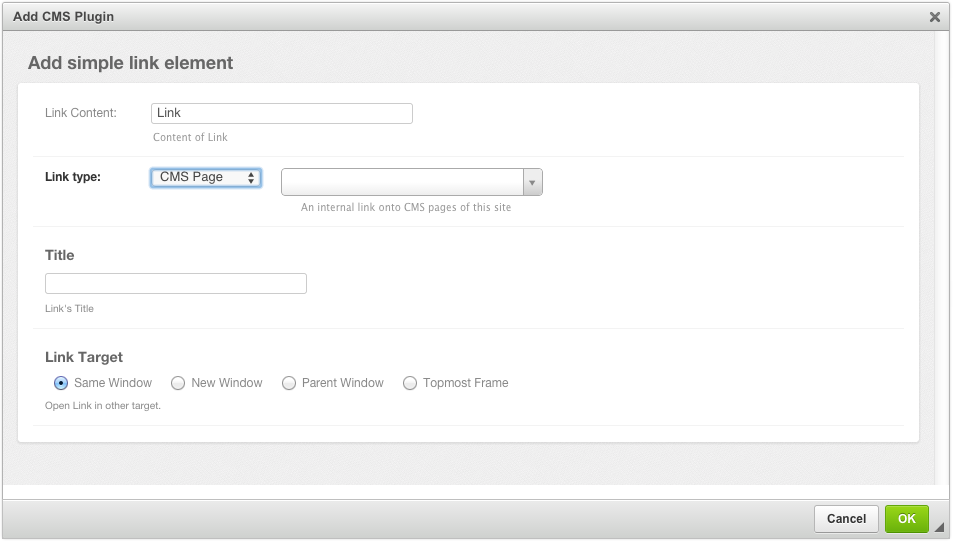
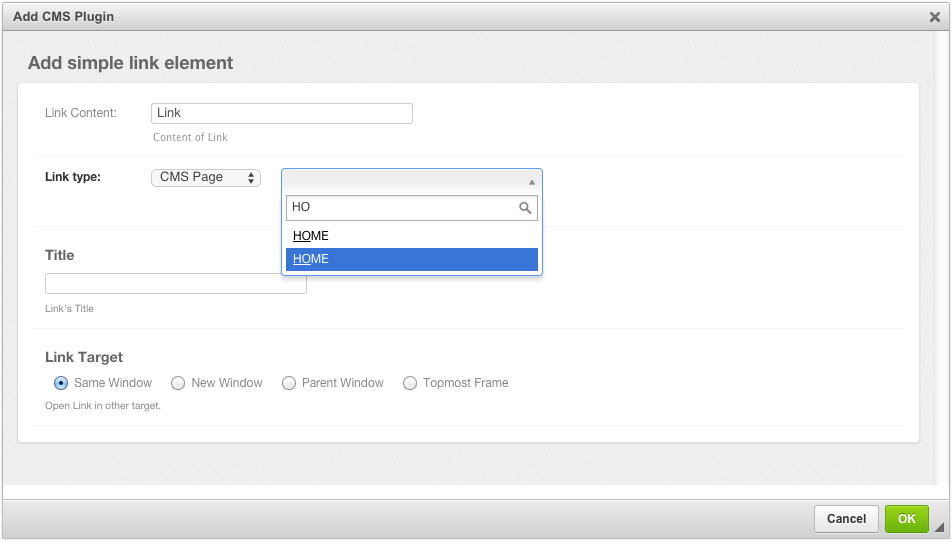
Updated docs for simple and sharable links

diff --git a/docs/source/link-plugin.rst b/docs/source/link-plugin.rst
@@ -4,16 +4,59 @@
 Link Plugin
 ===========
 
-**djangocms-cascade** ships with its own Link plugin. This is because other Cascade Plugins, such
-as Button and Picture require the functionality to set links to internal- and external URLs.
-However, the de-facto plugin for links, djangocms-link_ can't be used as a base class for these
-plugins, therefore an alternative implementation had to be re-implemented. As all other Cascade
-plugins, this implementation also keeps its data in a JSON field.
+**djangocms-cascade** ships with its own Link plugin. This is because other plugins from
+**djangocms-cascade**, such as ButtonPlugin or PicturePlugin require the functionality to set links
+to internal- and external URLs. The de-facto plugin for links, djangocms-link_ can't be used as a
+base class for these plugins, therefore an alternative implementation had to be created. And as all
+other Cascade plugins, this LinkPlugin also keeps its data in a JSON field.
+
+
+Simple Link Plugin
+==================
+
+Before using this plugin, assure that ``'cmsplugin_cascade.link.simple'`` is member of the list or
+tuple ``CMS_CASCADE_PLUGINS`` in the project's ``settings.py``.
 
 |simple-link-element|
 
 .. |simple-link-element| image:: _static/simple-link-element.png
 
+The behavior of this Plugin is what you expect from a Link editor. By changing the Link type, one
+can switch from a Link pointing to another page from this CMS, or point onto an external web page,
+or point onto an email address.
+
+The optional field **Title** can be used to add a ``title="some value"`` attribute to the
+``<a href ...>`` element.
+
+With **Link Target** one can specify, where the linked content shall appear. By default this is the
+same windows as the current one.
+
+Sharable Link Plugin
+====================
+
+Before using this plugin, assure that ``'cmsplugin_cascade.link.sharable'`` is a member of the list
+or tuple ``CMS_CASCADE_PLUGINS`` in the project's ``settings.py``.
+
+|sharable-link-element|
+
+.. |sharable-link-element| image:: _static/sharable-link-element.png
+
+The content of a sharable Link element can be shared with other Links of the same type. This can be
+achieved by clicking on the checkbox *Remember these settings as: ...* and giving it a name of
+your choice.
+
+The next time your create a Link element, you may select a previously named settings from the select
+field *Shared Settings*. Since these settings are shared among other plugins, they shall not be
+changeable, and therefore all input fields are disabled.
+
+Changing shared settings
+------------------------
+
+A shared plugin setting may be changed though, using the Django admin interface. Change into the
+list view for **Shared between Plugins** and select the named shared settings.
+
+Extending the Link Plugin
+=========================
 
 
 .. _djangocms-link: https://github.com/divio/djangocms-link
